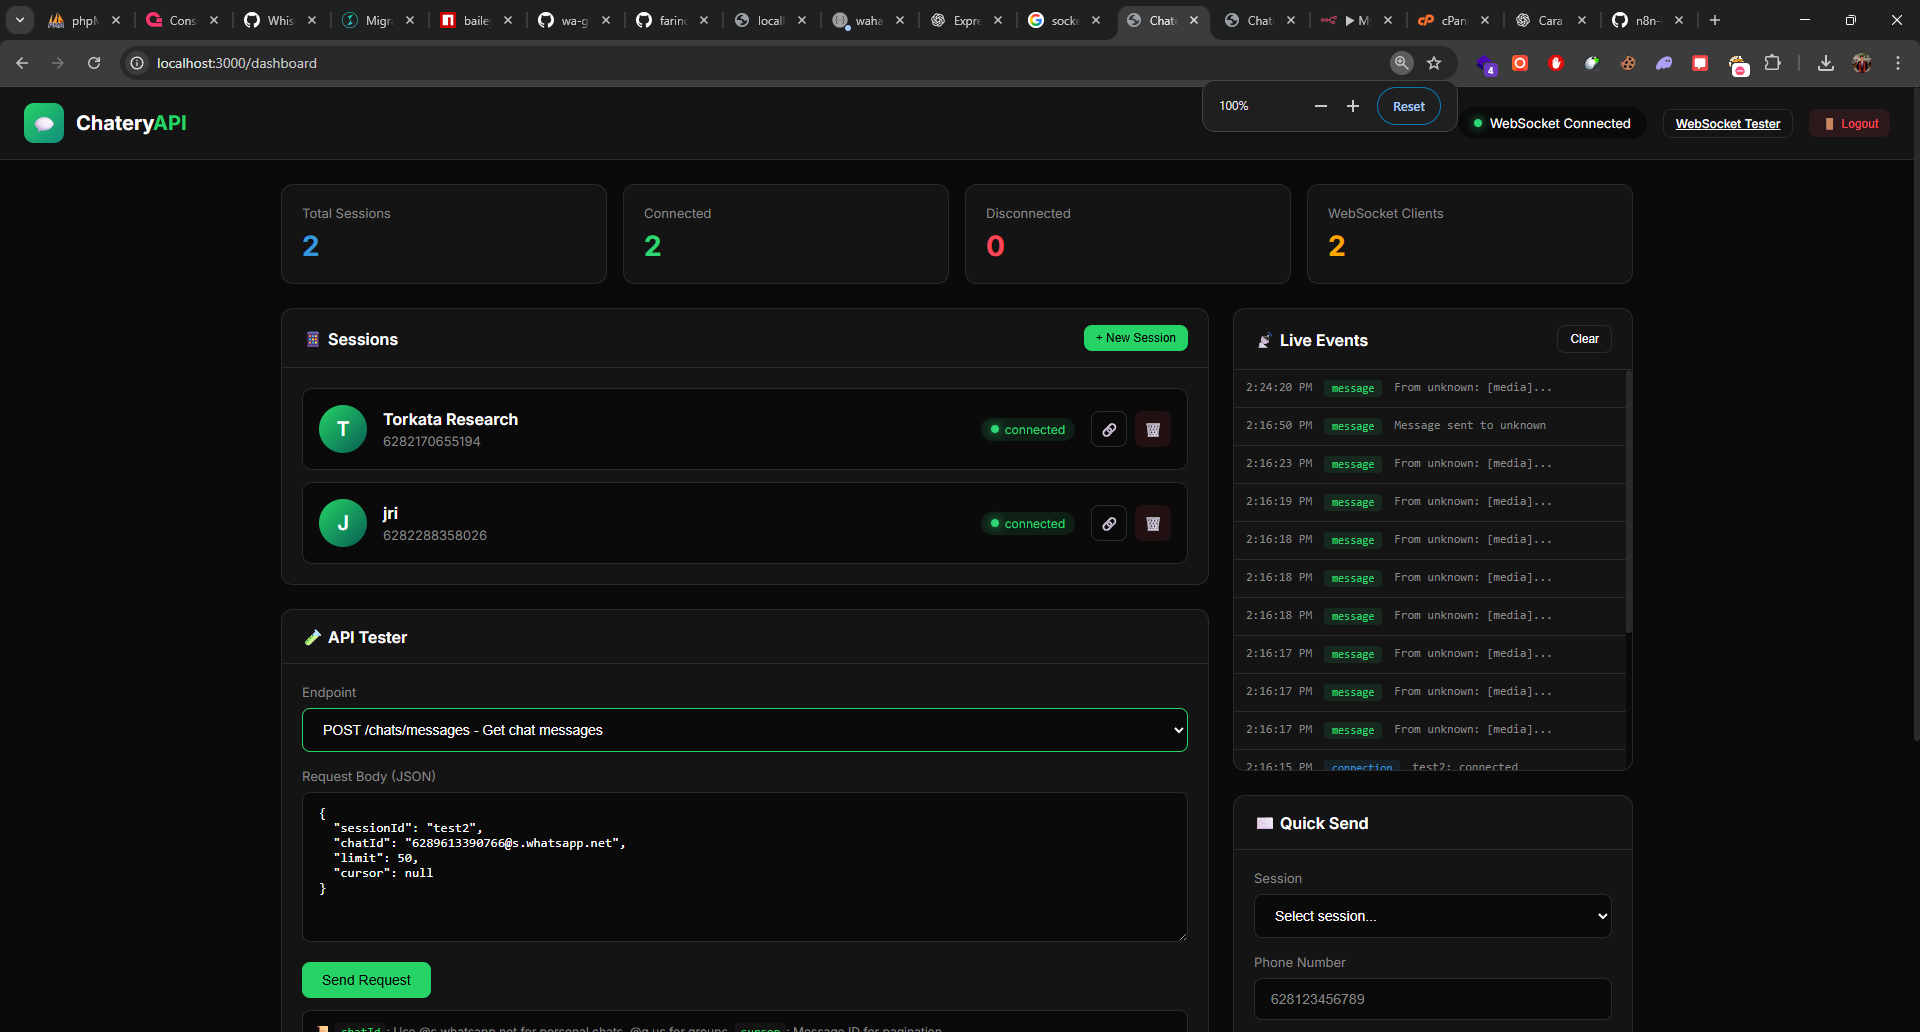
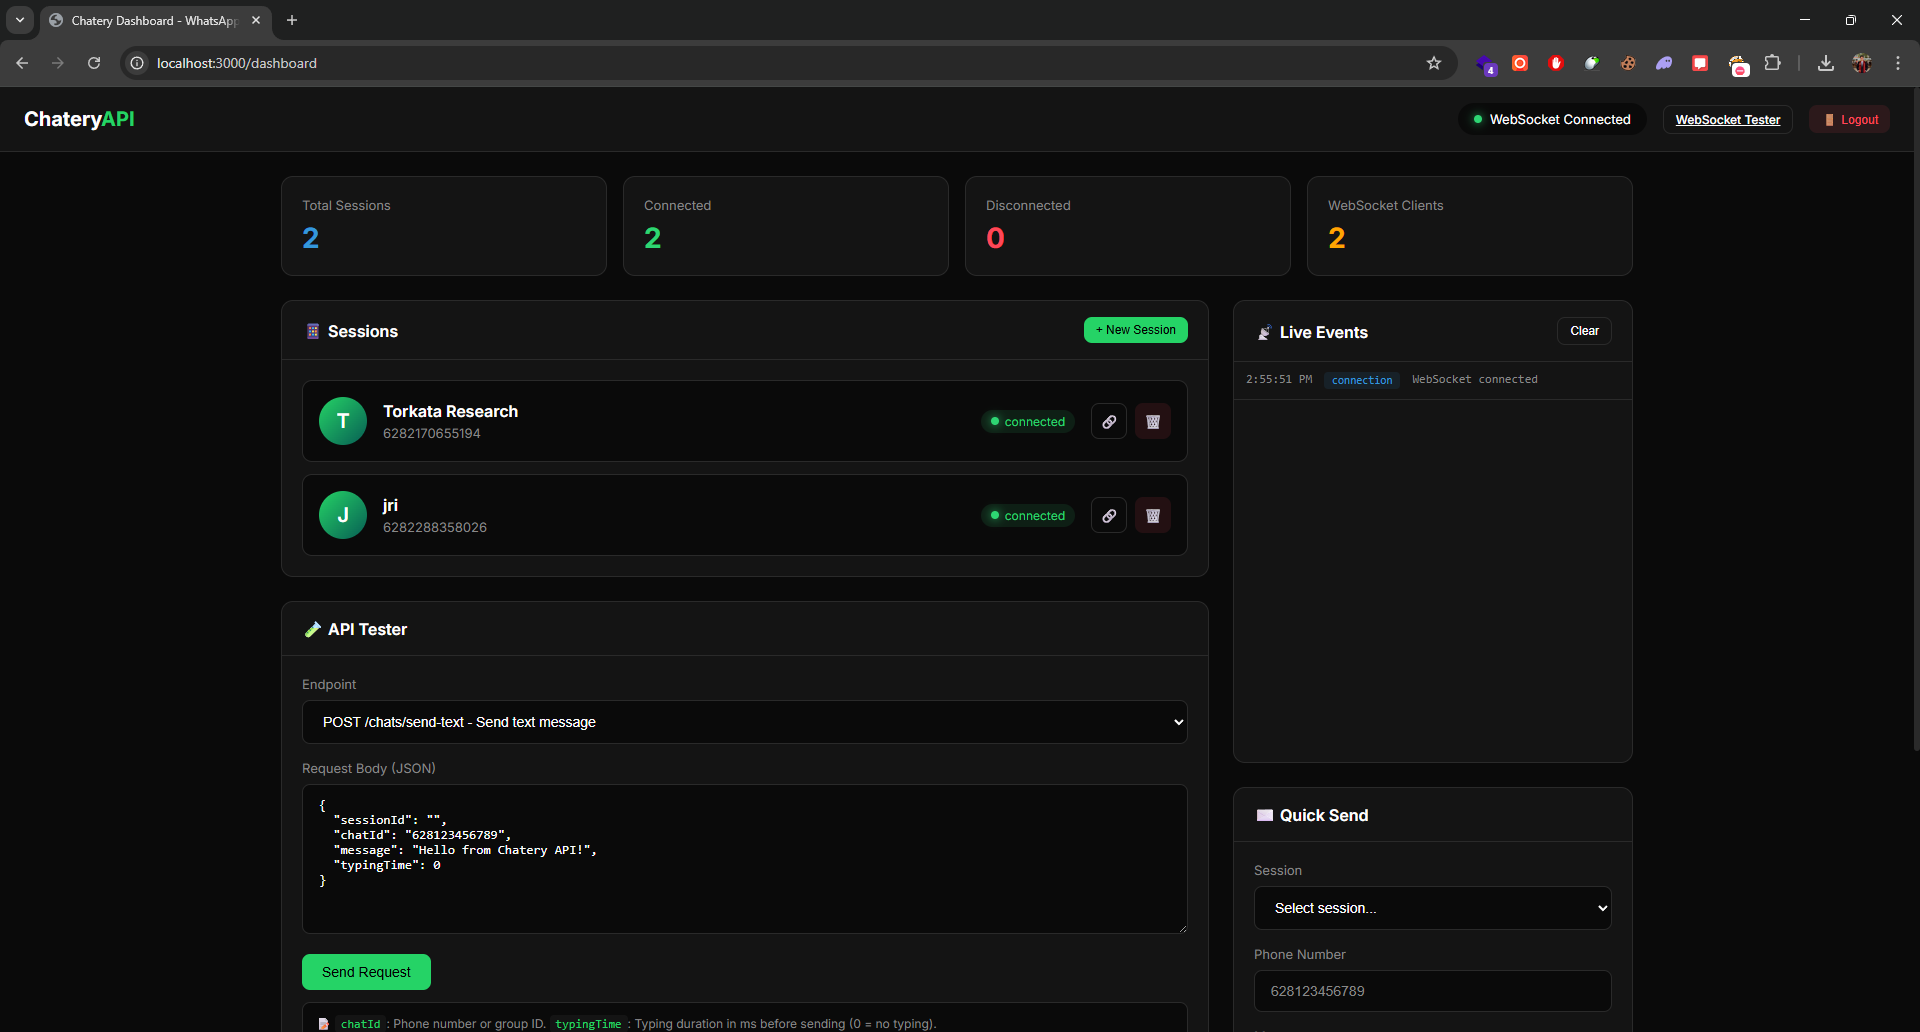
fix: .

diff --git a/public/dashboard.html b/public/dashboard.html
@@ -952,7 +952,7 @@
                 <a href="https://github.com/farinchan/chatery_backend" target="_blank" class="btn btn-github">
                     ⭐ Star on GitHub
                 </a>
-                <a href="https://www.linkedin.com/in/farinchan/" target="_blank" class="btn btn-outline">
+                <a href="https://www.linkedin.com/in/fajri-chan" target="_blank" class="btn btn-outline">   
                     💼 LinkedIn
                 </a>
             </div>
